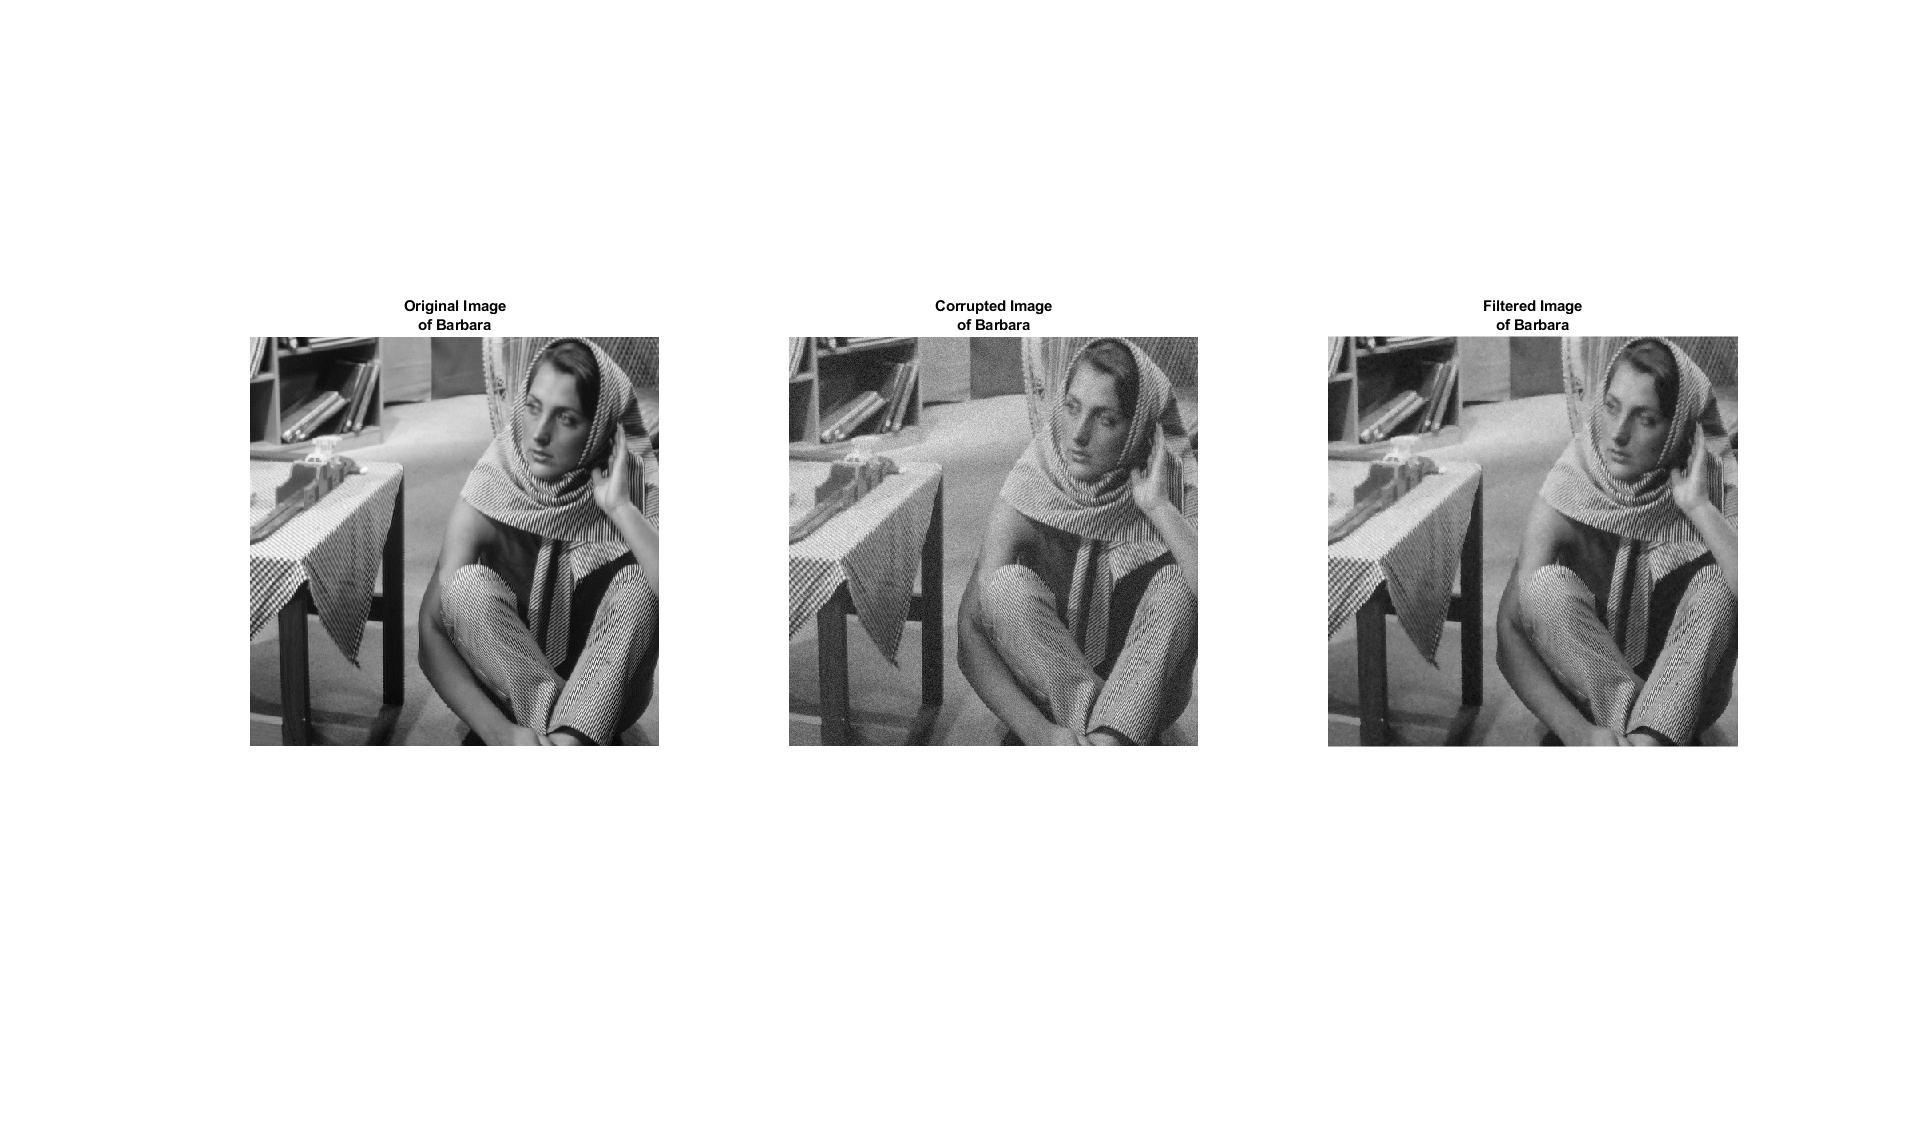
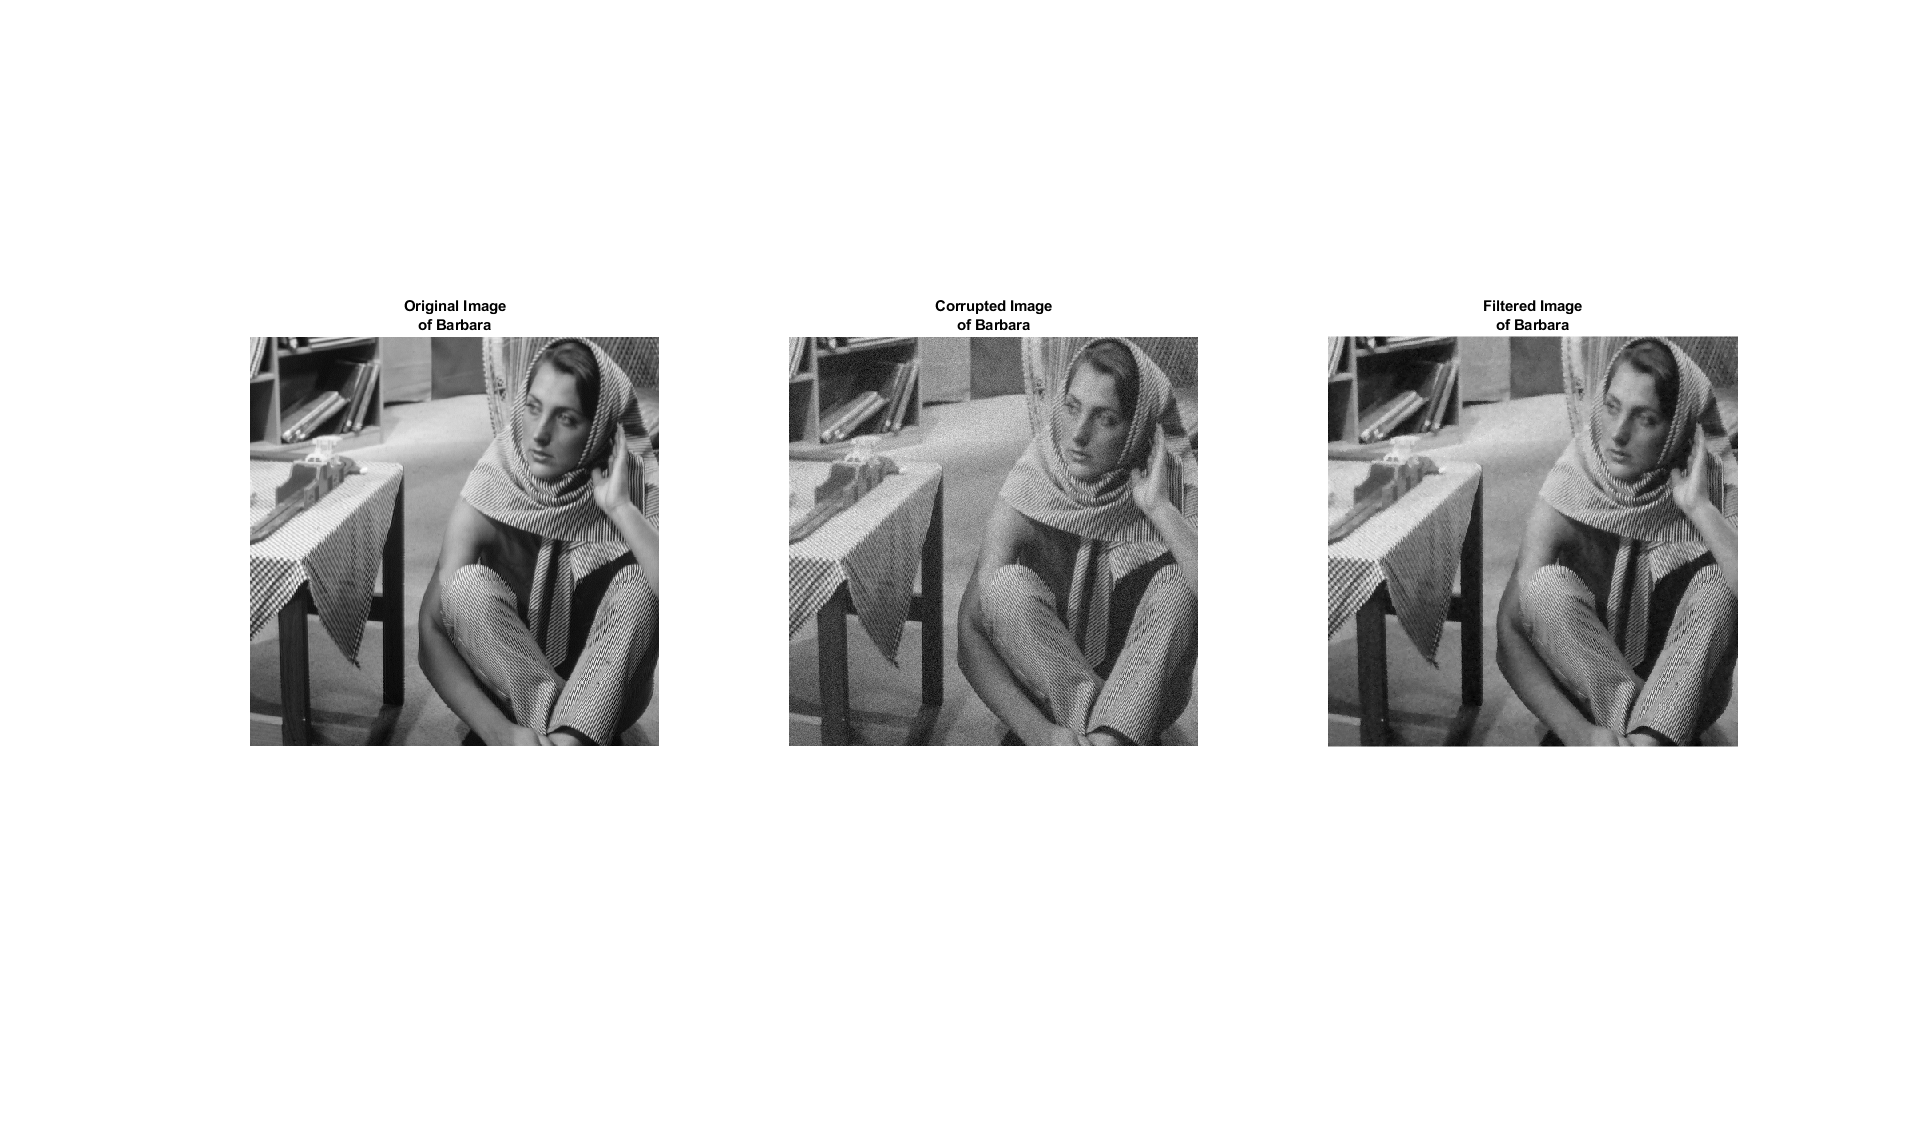
fixed random seed - Q2

Changed region(s): [[0.4062, 0.4363, 0.625, 0.6545], [0.4375, 0.3117, 0.625, 0.4675], [0.5938, 0.6233, 0.625, 0.6545]]

diff --git a/assignment-2-filtering/2/report/myMainScript.html b/assignment-2-filtering/2/report/myMainScript.html
@@ -67,43 +67,43 @@ table td { padding:7px 5px; text-align:left; vertical-align:top; border:1px soli
 
 
 
-  </style></head><body><div class="content"><h1>Q2: Edge-preserving Smoothing using Bilateral Filtering.</h1><!--introduction--><!--/introduction--><h2>Contents</h2><div><ul><li><a href="#1">First Image</a></li><li><a href="#5">Second Image</a></li><li><a href="#9">Third Image</a></li><li><a href="#12">References</a></li></ul></div><h2 id="1">First Image</h2><p>Optimized value of Sigma was found empirically to be 1.4 along space and 10 along intensity axis. Note that exact values depend on the run as the random seed is not fixed.</p><img vspace="5" hspace="5" src="myMainScript_01.png" alt=""> <pre>Denoised RMSD values for different (spatial sigma, intensity sigma) around optimal pair (1.4,10) are as follows-
-Without Filtering - 4.9991
-(1.4,10) - 3.2945
-(0.9*1.4,10)- 3.3000
-(1.1*1.4,10) - 3.2960
-(1.4,0.9*10) - 3.3185
-(1.4,1.1*10) - 3.3079</pre><img vspace="5" hspace="5" src="myMainScript_02.png" alt=""> <h2 id="5">Second Image</h2><p>Optimized value of Sigma was found empirically to be 0.7 along space and 55 along intensity axis. Note that exact values depend on the run as the random seed is not fixed.</p><img vspace="5" hspace="5" src="myMainScript_03.png" alt=""> <pre>Denoised RMSD values for different (spatial sigma, intensity sigma) around optimal pair (0.7,55) are as follows-
-Without Filtering - 11.7671
-(0.7,55) - 7.3196
-(0.9*0.7,55)- 7.4848
-(1.1*0.7,55) - 7.3702
-(0.7,0.9*55) - 7.3361
-(0.7,1.1*55) - 7.3278</pre><img vspace="5" hspace="5" src="myMainScript_04.png" alt=""> <h2 id="9">Third Image</h2><p>Optimized value of Sigma was found empirically to be 1.0 along space and 36 along intensity axis. Note that exact values depend on the run as the random seed is not fixed.</p><img vspace="5" hspace="5" src="myMainScript_05.png" alt=""> <pre>Denoised RMSD values for different (spatial sigma, intensity sigma) around optimal pair (1.0,36) are as follows-
-Without Filtering - 12.6777
-(1.0,36) - 7.3306
-(0.9*1.0,36)- 7.3749
-(1.1*1.0,36) - 7.3445
-(1.0,0.9*36) - 7.3917
-(1.0,1.1*36) - 7.3341</pre><img vspace="5" hspace="5" src="myMainScript_06.png" alt=""> <h2 id="12">References</h2><p>Increasing size of figure window - <a href="https://in.mathworks.com/matlabcentral/answers/102219-how-do-i-make-a-figure-full-screen-programmatically-in-matlab">https://in.mathworks.com/matlabcentral/answers/102219-how-do-i-make-a-figure-full-screen-programmatically-in-matlab</a></p><p class="footer"><br><a href="https://www.mathworks.com/products/matlab/">Published with MATLAB&reg; R2020a</a><br></p></div><!--
+  </style></head><body><div class="content"><h1>Q2: Edge-preserving Smoothing using Bilateral Filtering.</h1><!--introduction--><p>All randomness is seeded so that exact RMSD values can be observed</p><!--/introduction--><h2>Contents</h2><div><ul><li><a href="#1">First Image</a></li><li><a href="#5">Second Image</a></li><li><a href="#9">Third Image</a></li><li><a href="#12">References</a></li></ul></div><h2 id="1">First Image</h2><p>Optimized value of Sigma was found empirically to be 1.4 along space and 10 along intensity axis.</p><img vspace="5" hspace="5" src="myMainScript_01.png" alt=""> <pre>Denoised RMSD values for different (spatial sigma, intensity sigma) around optimal pair (1.4,10) are as follows-
+Without Filtering - 5.000
+(1.4,10) - 3.2908
+(0.9*1.4,10)- 3.2961
+(1.1*1.4,10) - 3.2925
+(1.4,0.9*10) - 3.3154
+(1.4,1.1*10) - 3.3039</pre><img vspace="5" hspace="5" src="myMainScript_02.png" alt=""> <h2 id="5">Second Image</h2><p>Optimized value of Sigma was found empirically to be 0.7 along space and 55 along intensity axis.</p><img vspace="5" hspace="5" src="myMainScript_03.png" alt=""> <pre>Denoised RMSD values for different (spatial sigma, intensity sigma) around optimal pair (0.7,55) are as follows-
+Without Filtering - 11.7669
+(0.7,55) - 7.3971
+(0.9*0.7,55)- 7.5501
+(1.1*0.7,55) - 7.4692
+(0.7,0.9*55) - 7.3991
+(0.7,1.1*55) - 7.4181</pre><img vspace="5" hspace="5" src="myMainScript_04.png" alt=""> <h2 id="9">Third Image</h2><p>Optimized value of Sigma was found empirically to be 1.0 along space and 36 along intensity axis. Note that exact values depend on the run as the random seed is not fixed.</p><img vspace="5" hspace="5" src="myMainScript_05.png" alt=""> <pre>Denoised RMSD values for different (spatial sigma, intensity sigma) around optimal pair (1.0,36) are as follows-
+Without Filtering - 12.6648
+(1.0,36) - 7.3176
+(0.9*1.0,36)- 7.3626
+(1.1*1.0,36) - 7.3313
+(1.0,0.9*36) - 7.3805
+(1.0,1.1*36) - 7.3196</pre><img vspace="5" hspace="5" src="myMainScript_06.png" alt=""> <h2 id="12">References</h2><p>Increasing size of figure window - <a href="https://in.mathworks.com/matlabcentral/answers/102219-how-do-i-make-a-figure-full-screen-programmatically-in-matlab">https://in.mathworks.com/matlabcentral/answers/102219-how-do-i-make-a-figure-full-screen-programmatically-in-matlab</a></p><p class="footer"><br><a href="https://www.mathworks.com/products/matlab/">Published with MATLAB&reg; R2020a</a><br></p></div><!--
 ##### SOURCE BEGIN #####
 %% Q2: Edge-preserving Smoothing using Bilateral Filtering.
-
+% All randomness is seeded so that exact RMSD values can be observed
 
 %% First Image
 %%  
 % Optimized value of Sigma was found empirically to be 1.4 along space and
-% 10 along intensity axis. Note that exact values depend on the run as the
-% random seed is not fixed.
-f = figure('visible','on');
-f.WindowState = 'maximized';
+% 10 along intensity axis. 
 imstruct = load('../data/barbara.mat');
 im = imstruct.imageOrig;
 spread = range(im,'all');
+rng(0);
 noise = (0.05*spread).*randn(size(im,1));
 ns = im + noise;
-cleaned = myBilateralFiltering(ns,1.0*1.4,0.9*10);
+cleaned = myBilateralFiltering(ns,1.0*1.4,1.0*10);
 global Gauss
+f = figure('visible','on');
+f.WindowState = 'maximized';
 subplot(1, 3, 1)
 imshow(mat2gray(im),'InitialMagnification','fit')
 title({'Original Image', 'of Barbara'});
@@ -115,14 +115,15 @@ imshow(mat2gray(cleaned),'InitialMagnification','fit')
 title({'Filtered Image' ,'of Barbara'});
 rmsd = sqrt(mean((cleaned-im).^2, 'all'));
 ogrmsd = sqrt(mean((ns-im).^2, 'all'));
+
 %%  
 %  Denoised RMSD values for different (spatial sigma, intensity sigma) around optimal pair (1.4,10) are as follows-
-%  Without Filtering - 4.9991
-%  (1.4,10) - 3.2945 
-%  (0.9*1.4,10)- 3.3000 
-%  (1.1*1.4,10) - 3.2960
-%  (1.4,0.9*10) - 3.3185
-%  (1.4,1.1*10) - 3.3079
+%  Without Filtering - 5.000
+%  (1.4,10) - 3.2908 
+%  (0.9*1.4,10)- 3.2961 
+%  (1.1*1.4,10) - 3.2925
+%  (1.4,0.9*10) - 3.3154
+%  (1.4,1.1*10) - 3.3039
 %%
 f = figure('visible','on');
 subplot(1, 1, 1)
@@ -131,16 +132,16 @@ title("Spatial Gaussian Kernel displayed as an image");
 %% Second Image
 %%
 % Optimized value of Sigma was found empirically to be 0.7 along space and
-% 55 along intensity axis. Note that exact values depend on the run as the
-% random seed is not fixed.
+% 55 along intensity axis. 
 
 
 im = imread('../data/grass.png');
 im = double(im);
 spread = range(im,'all');
+rng(0);
 noise = (0.05*spread).*randn(size(im,1));
 ns = im + noise;
-cleaned = myBilateralFiltering(ns,0.7*1.0,55*1.0);
+cleaned = myBilateralFiltering(ns,0.7*1.0,55*1.1);
 f = figure('visible','on');
 f.WindowState = 'maximized';
 subplot(1, 3, 1)
@@ -156,12 +157,12 @@ rmsd = sqrt(mean((cleaned-im).^2, 'all'));
 ogrmsd = sqrt(mean((ns-im).^2, 'all'));
 %%  
 %  Denoised RMSD values for different (spatial sigma, intensity sigma) around optimal pair (0.7,55) are as follows-
-%  Without Filtering - 11.7671
-%  (0.7,55) - 7.3196 
-%  (0.9*0.7,55)- 7.4848
-%  (1.1*0.7,55) - 7.3702
-%  (0.7,0.9*55) - 7.3361
-%  (0.7,1.1*55) - 7.3278
+%  Without Filtering - 11.7669
+%  (0.7,55) - 7.3971 
+%  (0.9*0.7,55)- 7.5501
+%  (1.1*0.7,55) - 7.4692
+%  (0.7,0.9*55) - 7.3991
+%  (0.7,1.1*55) - 7.4181
 %%
 f = figure('visible','on');
 subplot(1, 1, 1)
@@ -175,6 +176,7 @@ title("Spatial Gaussian Kernel displayed as an image");
 im = imread('../data/honeyCombReal.png');
 im = double(im);
 spread = range(im,'all');
+rng(0);
 noise = (0.05*spread).*randn(size(im,1));
 ns = im + noise;
 cleaned = myBilateralFiltering(ns,1.0*1.0,36*1.0);
@@ -193,12 +195,12 @@ rmsd = sqrt(mean((cleaned-im).^2, 'all'));
 ogrmsd = sqrt(mean((ns-im).^2, 'all'));
 %%  
 %  Denoised RMSD values for different (spatial sigma, intensity sigma) around optimal pair (1.0,36) are as follows-
-%  Without Filtering - 12.6777
-%  (1.0,36) - 7.3306 
-%  (0.9*1.0,36)- 7.3749 
-%  (1.1*1.0,36) - 7.3445
-%  (1.0,0.9*36) - 7.3917
-%  (1.0,1.1*36) - 7.3341
+%  Without Filtering - 12.6648
+%  (1.0,36) - 7.3176 
+%  (0.9*1.0,36)- 7.3626 
+%  (1.1*1.0,36) - 7.3313
+%  (1.0,0.9*36) - 7.3805
+%  (1.0,1.1*36) - 7.3196
 %%
 f = figure('visible','on');
 subplot(1, 1, 1)
